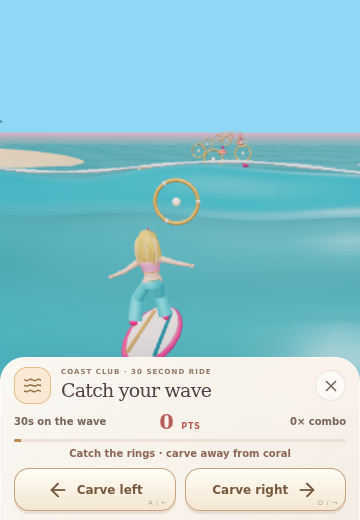
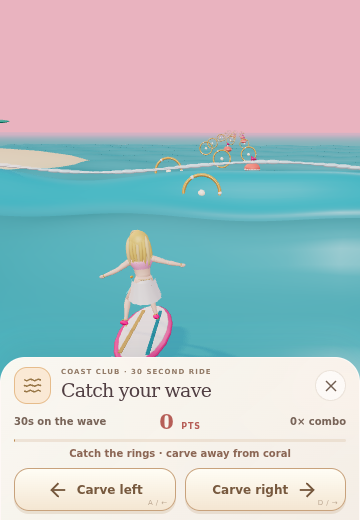
release: tested Social Summer import prompt, receipt proof and scene previews

diff --git a/docs/v2-verification.md b/docs/v2-verification.md
@@ -15,3 +15,5 @@ Verified in Chromium WebGL / SwiftShader:
 Checks: app/config TypeScript; ESLint; production single-file build;18 model/storage/importer tests; joystick, wardrobe/DJ, photo, activity and engine runtime suites. Character worker tested64 top/bottom combinations and nine distinct finite pose hierarchies. New scenes use the existing renderer. Low quality limits detailed residents to one and suppresses party effects; other presets allow three detailed residents. Photo storage keeps the latest12 images and a separate reward-signature ledger so deleting/reposting an identical shot cannot farm followers.
 
 Limits: no physical Android or Aippy WebView benchmark. The original BGM URL failed to fetch in this automated browser environment; it is unchanged, and audio playback needs a device check. Original external collector artwork/music URLs remain. Character joints are original rigid articulation, not an imported weighted rig. Fictional feed activity is local game simulation, not Instagram or real users. No objective AAA/8-out-of10 rating is claimed.
+
+Published import smoke check: real HTTP requests to the new commit-pinned GitHub manifest verified all77 game files and ten registry keys. An unrelated asset and the host entry sentinel survived; the second identical request skipped downloads and preserved a later local App edit. Source19a0d5ae5919ad6416e8c474fb66c2eabc389820; manifest19aba589f2bbdf36314ce1f5e86355d5fca37d38. See docs/import-verification.json and the fresh v2 AIPPY_UPDATE_PROMPT.txt.
